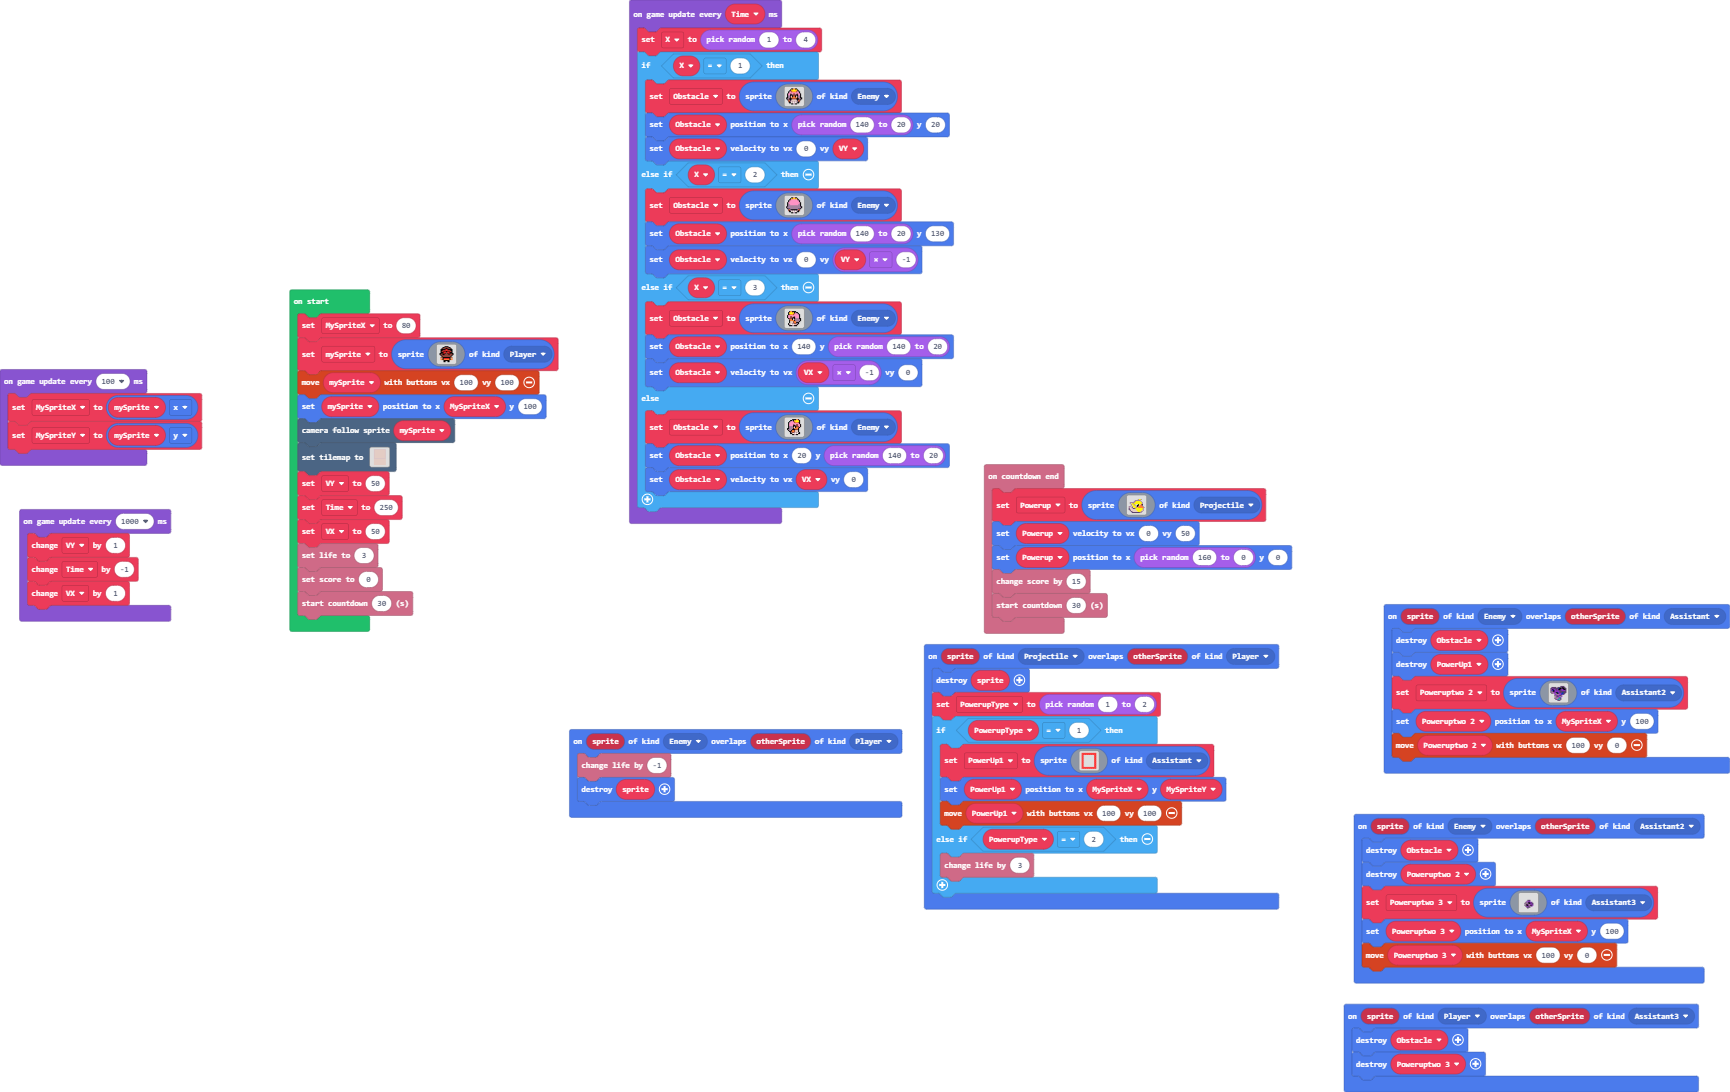
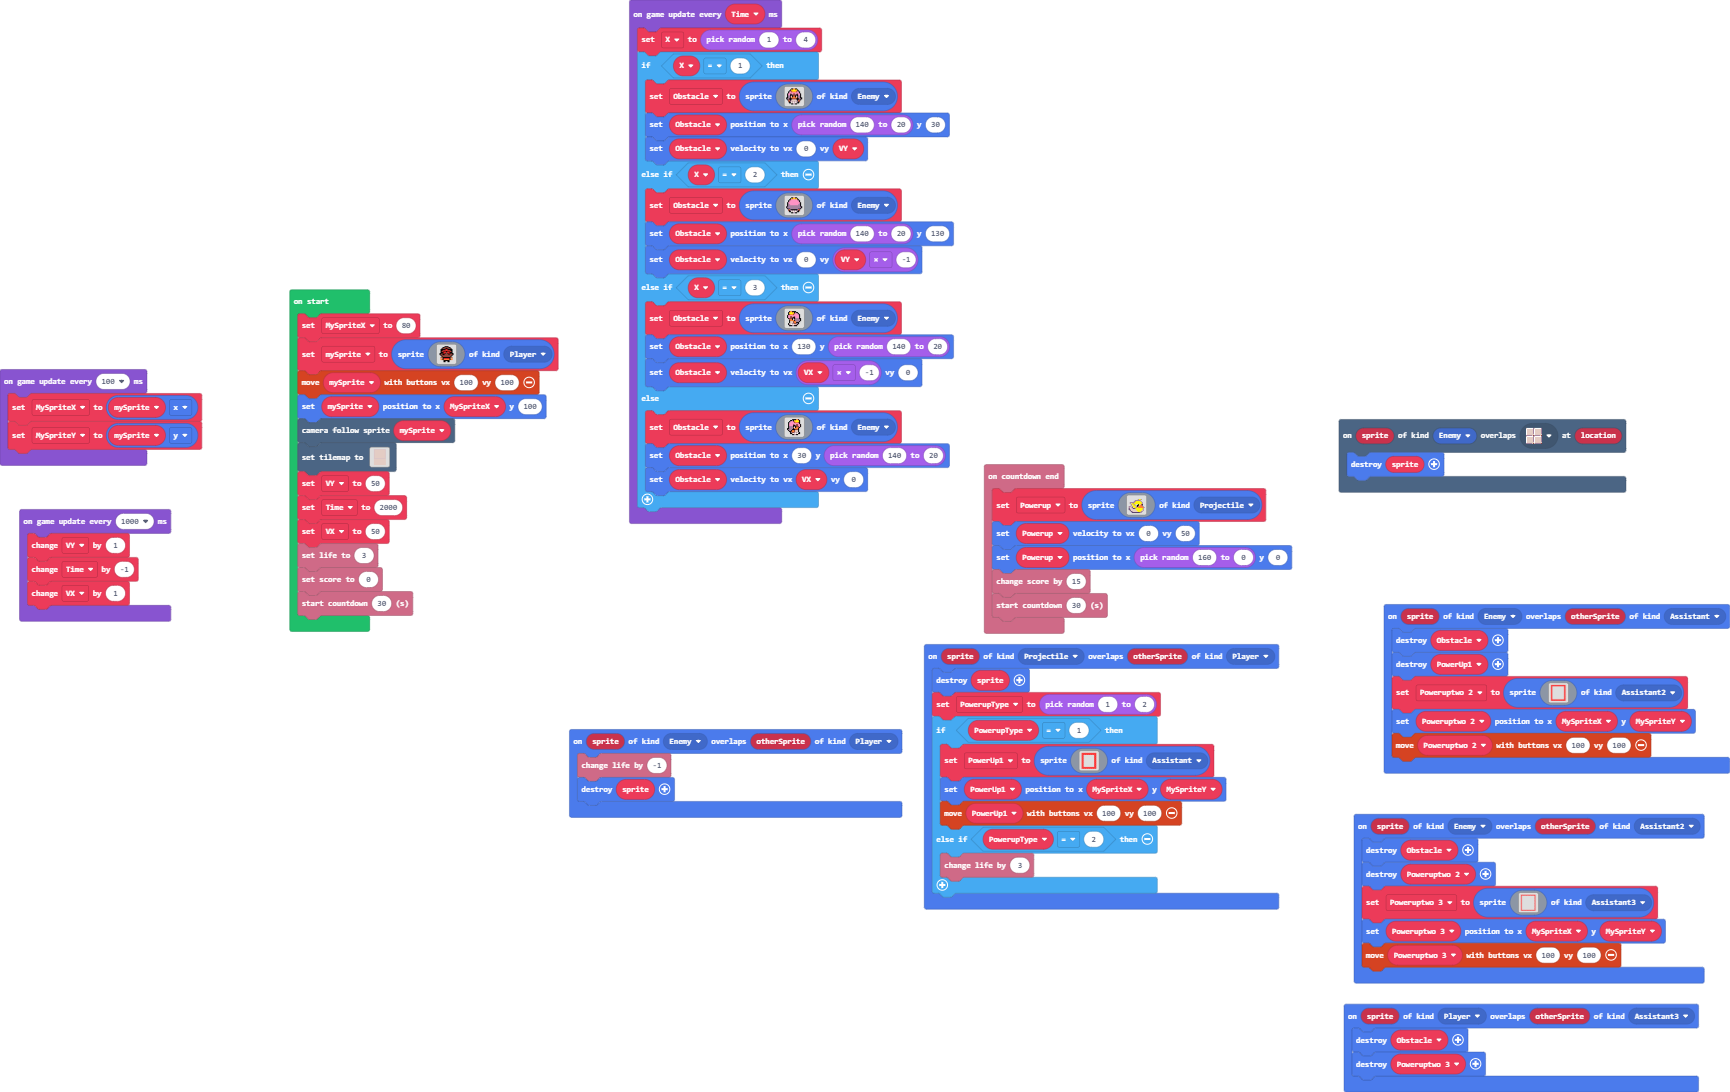
Final shield powerup repair, enemy destruction function

diff --git a/main.ts b/main.ts
@@ -8,25 +8,31 @@ sprites.onOverlap(SpriteKind.Enemy, SpriteKind.Assistant2, function (sprite, oth
     Obstacle.destroy()
     Poweruptwo_2.destroy()
     Poweruptwo_3 = sprites.create(img`
-        . . . . . . . . . . . . . . . . 
-        . . . . . . . . . . . . . . . . 
-        . . . . . . . . . . . . . . . . 
-        . . . . . . . . . . . . . . . . 
-        . . . . . . . . . . . . . . . . 
-        . . . . . . . c c c . . . . . . 
-        . . . . . . a b a a . . . . . . 
-        . . . . . c b a f c a c . . . . 
-        . . . . c b b b f f a c c . . . 
-        . . . . b b f a b b a a c . . . 
-        . . . . c b f f b a f c a . . . 
-        . . . . . c a a c b b a . . . . 
-        . . . . . . c c c c . . . . . . 
-        . . . . . . . c . . . . . . . . 
-        . . . . . . . . . . . . . . . . 
-        . . . . . . . . . . . . . . . . 
+        22222222222222222222
+        2..................2
+        2..................2
+        2..................2
+        2..................2
+        2..................2
+        2..................2
+        2..................2
+        2..................2
+        2..................2
+        2..................2
+        2..................2
+        2..................2
+        2..................2
+        2..................2
+        2..................2
+        2..................2
+        2..................2
+        2..................2
+        2..................2
+        2..................2
+        22222222222222222222
         `, SpriteKind.Assistant3)
-    Poweruptwo_3.setPosition(MySpriteX, 100)
-    controller.moveSprite(Poweruptwo_3, 100, 0)
+    Poweruptwo_3.setPosition(MySpriteX, MySpriteY)
+    controller.moveSprite(Poweruptwo_3, 100, 100)
 })
 sprites.onOverlap(SpriteKind.Projectile, SpriteKind.Player, function (sprite, otherSprite) {
     sprite.destroy()
@@ -68,6 +74,9 @@ sprites.onOverlap(SpriteKind.Player, SpriteKind.Assistant3, function (sprite, ot
     Obstacle.destroy()
     Poweruptwo_3.destroy()
 })
+scene.onOverlapTile(SpriteKind.Enemy, sprites.dungeon.floorLight0, function (sprite, location) {
+    sprite.destroy()
+})
 info.onCountdownEnd(function () {
     Powerup = sprites.create(img`
         . . . . . . . . . . . . . . . . 
@@ -100,31 +109,38 @@ sprites.onOverlap(SpriteKind.Enemy, SpriteKind.Assistant, function (sprite, othe
     Obstacle.destroy()
     PowerUp1.destroy()
     Poweruptwo_2 = sprites.create(img`
-        . . . . . . . . . . . . . . . . 
-        . . . . . . . . . . c c c c . . 
-        . c c c c c . c c c c c f c c . 
-        c c a c c c c c 8 f f c f f c c 
-        c a f a a c c a f f c a a f f c 
-        c a 8 f a a c a c c c a a a a c 
-        c b c f a a a a a c c c c c c c 
-        c b b a a c f 8 a c c c 8 c c c 
-        . c b b a b c f a a a 8 8 c c . 
-        . . . . a a b b b a a 8 a c . . 
-        . . . . c b c a a c c b . . . . 
-        . . . . b b c c a b b a . . . . 
-        . . . . b b a b a 6 a . . . . . 
-        . . . . c b b b 6 6 c . . . . . 
-        . . . . . c a 6 6 b c . . . . . 
-        . . . . . . . c c c . . . . . . 
+        222222222222222222222
+        222222222222222222222
+        22.................22
+        22.................22
+        22.................22
+        22.................22
+        22.................22
+        22.................22
+        22.................22
+        22.................22
+        22.................22
+        22.................22
+        22.................22
+        22.................22
+        22.................22
+        22.................22
+        22.................22
+        22.................22
+        22.................22
+        22.................22
+        22.................22
+        222222222222222222222
+        222222222222222222222
         `, SpriteKind.Assistant2)
-    Poweruptwo_2.setPosition(MySpriteX, 100)
-    controller.moveSprite(Poweruptwo_2, 100, 0)
+    Poweruptwo_2.setPosition(MySpriteX, MySpriteY)
+    controller.moveSprite(Poweruptwo_2, 100, 100)
 })
 let X = 0
 let Powerup: Sprite = null
-let MySpriteY = 0
 let PowerUp1: Sprite = null
 let PowerupType = 0
+let MySpriteY = 0
 let Poweruptwo_3: Sprite = null
 let Poweruptwo_2: Sprite = null
 let Obstacle: Sprite = null
@@ -153,7 +169,7 @@ mySprite.setPosition(MySpriteX, 100)
 scene.cameraFollowSprite(mySprite)
 tiles.setTilemap(tilemap`level1`)
 let VY = 50
-let Time = 250
+let Time = 2000
 let VX = 50
 info.setLife(3)
 info.setScore(0)
@@ -184,7 +200,7 @@ game.onUpdateInterval(Time, function () {
             . . . f f 1 d 1 d 1 d f f . . . 
             . . . . . f f b b f f . . . . . 
             `, SpriteKind.Enemy)
-        Obstacle.setPosition(randint(140, 20), 20)
+        Obstacle.setPosition(randint(140, 20), 30)
         Obstacle.setVelocity(0, VY)
     } else if (X == 2) {
         Obstacle = sprites.create(img`
@@ -226,7 +242,7 @@ game.onUpdateInterval(Time, function () {
             . . f b d 1 d 1 d d b f . . . . 
             . . . f f f b b f f f . . . . . 
             `, SpriteKind.Enemy)
-        Obstacle.setPosition(140, randint(140, 20))
+        Obstacle.setPosition(130, randint(140, 20))
         Obstacle.setVelocity(VX * -1, 0)
     } else {
         Obstacle = sprites.create(img`
@@ -247,7 +263,7 @@ game.onUpdateInterval(Time, function () {
             . . . . f f d 1 d 1 d 1 f f . . 
             . . . . . . f f b b f f . . . . 
             `, SpriteKind.Enemy)
-        Obstacle.setPosition(20, randint(140, 20))
+        Obstacle.setPosition(30, randint(140, 20))
         Obstacle.setVelocity(VX, 0)
     }
 })

diff --git a/images.g.ts b/images.g.ts
@@ -39,42 +39,6 @@ c b d d d d d 5 5 5 5 5 5 5 b .
 . . . . . f f f f f f . . . . . 
 . . . . . f f . . f f . . . . . 
 `;
-            case "image4":return img`
-. . . . . . . . . . . . . . . . 
-. . . . . . . . . . c c c c . . 
-. c c c c c . c c c c c f c c . 
-c c a c c c c c 8 f f c f f c c 
-c a f a a c c a f f c a a f f c 
-c a 8 f a a c a c c c a a a a c 
-c b c f a a a a a c c c c c c c 
-c b b a a c f 8 a c c c 8 c c c 
-. c b b a b c f a a a 8 8 c c . 
-. . . . a a b b b a a 8 a c . . 
-. . . . c b c a a c c b . . . . 
-. . . . b b c c a b b a . . . . 
-. . . . b b a b a 6 a . . . . . 
-. . . . c b b b 6 6 c . . . . . 
-. . . . . c a 6 6 b c . . . . . 
-. . . . . . . c c c . . . . . . 
-`;
-            case "image5":return img`
-. . . . . . . . . . . . . . . . 
-. . . . . . . . . . . . . . . . 
-. . . . . . . . . . . . . . . . 
-. . . . . . . . . . . . . . . . 
-. . . . . . . . . . . . . . . . 
-. . . . . . . c c c . . . . . . 
-. . . . . . a b a a . . . . . . 
-. . . . . c b a f c a c . . . . 
-. . . . c b b b f f a c c . . . 
-. . . . b b f a b b a a c . . . 
-. . . . c b f f b a f c a . . . 
-. . . . . c a a c b b a . . . . 
-. . . . . . c c c c . . . . . . 
-. . . . . . . c . . . . . . . . 
-. . . . . . . . . . . . . . . . 
-. . . . . . . . . . . . . . . . 
-`;
             case "image9":return img`
 . . . . . . f f f f 4 4 f . . . 
 . . . . f f b f 5 4 5 5 4 f . . 
@@ -172,6 +136,55 @@ f b b f f f e e e e f f f b b f
 2222222222222222222222
 2222222222222222222222
 2222222222222222222222
+`;
+            case "image4":return img`
+222222222222222222222
+222222222222222222222
+22.................22
+22.................22
+22.................22
+22.................22
+22.................22
+22.................22
+22.................22
+22.................22
+22.................22
+22.................22
+22.................22
+22.................22
+22.................22
+22.................22
+22.................22
+22.................22
+22.................22
+22.................22
+22.................22
+222222222222222222222
+222222222222222222222
+`;
+            case "image5":return img`
+22222222222222222222
+2..................2
+2..................2
+2..................2
+2..................2
+2..................2
+2..................2
+2..................2
+2..................2
+2..................2
+2..................2
+2..................2
+2..................2
+2..................2
+2..................2
+2..................2
+2..................2
+2..................2
+2..................2
+2..................2
+2..................2
+22222222222222222222
 `;
         }
         return null;
